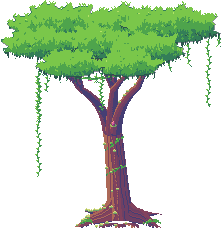
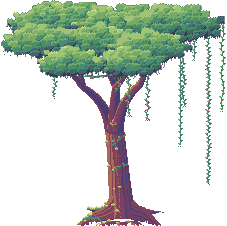
Piante che stanno nel prato: verdi del gioco, ciuffi, contorno selettivo
Bru: le piante nuove "non blendano bene con l'ambiente, studia online
tecniche". Dalle fonti (tutorial di pixel art sul fogliame e sulle cose
dell'ambiente): rampe condivise col terreno con le ombre verso il blu e il
viola, niente contorno scuro sulle cose dell'ambiente ma un contorno
selettivo di un tono più scuro, il fogliame fatto con un ciuffo-tipo
ripetuto (forma, misura e passo costanti) in tre toni secondo la luce,
niente pixel soli, meno contrasto e saturazione dei personaggi.

- strumenti/livelli/piante.py: la rampa delle foglie torna quella 'chioma'
  della tavolozza del gioco (gli scuri del prato, saturazione più bassa);
  il fogliame a ciuffi: luce generale, poi un ciuffo-tipo di 10-12 pixel
  ripetuto su file sfalsate coi suoi tre toni, i ciuffi di un lobo restano
  nel suo lobo (le fessure fra i lobi restano), ciuffi piccoli dove i
  grandi non cadono; contorno selettivo (un tono più scuro dalla parte
  della luce, due dalla parte dell'ombra).
- Rigenerati le piante, il ruscello e il pasto del goblin (cambiano solo
  le ombre degli alberi; strada e piazza identiche).

Claude-Session: https://claude.ai/code/session_01AE7uzpDH1Lo1PHb29aXJxZ

diff --git a/strumenti/livelli/piante.py b/strumenti/livelli/piante.py
@@ -8,19 +8,23 @@ che si vedono nei buchi; il tronco con le venature chiare dal lato della luce. I
 quelli di lei (niente ingrandimenti a blocchi): una pianta grande ha piu' lobi e piu' ciuffi, non foglie piu' grosse.
 Colori: quelli degli esempi di Bru (la stessa famiglia del prato).
 Le foglie dei cespugli e delle chiome (Bru, 27 novembre: "miglioriamo gli arbusti e le foglie delle piante", con gli
-esempi 116-118 "da seguire rigorosamente"): i verdi e i valori di quegli esempi (CHIOMA), fasce di luce nette (chiaro in
-alto a sinistra, medio, scuro in basso a destra, il piu' scuro in fondo e nelle fessure fra un lobo e l'altro), i
-passaggi fatti di foglie che pendono, le tacche a V nella luce, pochi colpi di luce gialla, il contorno (scuro dalla
-parte dell'ombra, piu' chiaro dalla parte della luce) e il bordo a ciuffi (_fogliame, _contorno).
+esempi 116-118; poi: "non blendano bene con l'ambiente, studia online tecniche"): il metodo dei pixel artist per le
+piante che devono stare nel prato (il ciuffo-tipo ripetuto di Slynyrd, le rampe condivise col terreno, il contorno
+selettivo invece della linea scura, niente pixel soli): prima la luce generale (chiaro in alto a sinistra, scuro in
+basso a destra e nelle fessure fra un lobo e l'altro), poi un solo ciuffo-tipo ripetuto su file sfalsate, ognuno coi
+suoi tre toni (luce, corpo, ombra) presi dalla luce generale, e i ciuffi di un lobo restano nel suo lobo; i colori sono
+la rampa 'chioma' della tavolozza del gioco, con gli scuri del prato (_fogliame, _contorno, _contorno_chioma).
 
 modulo: albero(alto, seme), pino(alto, seme), cespuglio(alto, seme) -> RGBA uint8
 uso: piante.py cartella_lei_chibi cartella_pezzi uscita.png   (la fila: lei, le piante nuove, le vecchie)"""
 import numpy as np
 
-# le foglie, dallo scuro al chiaro, coi valori e i verdi degli esempi di Bru per cespugli e chiome (116-118): il
-# contorno indaco della mappa, lo scuro verde petrolio, il medio verde pieno, la luce verde-giallo viva e il colpo di
-# luce gialla (prima: i colori del 110, coi chiari troppo vicini e lo scuro viola)
-CHIOMA = [(47, 41, 67), (44, 84, 78), (52, 126, 88), (78, 164, 76), (122, 199, 74), (180, 226, 104)]
+# le foglie, dallo scuro al chiaro: il contorno indaco della mappa e la rampa 'chioma' della tavolozza del gioco
+# (strumenti/tavolozza.py), che ha gli scuri del prato, passi di luce regolari e verdi meno saturi del prato: le piante
+# stanno nel prato invece di sembrare incollate (Bru: "non blendano bene con l'ambiente"; prima una rampa piu' satura,
+# presa dagli esempi 116-118, che col prato non c'entrava)
+CHIOMA = [(47, 41, 67), (55, 60, 82), (63, 104, 106), (73, 141, 108), (117, 170, 103), (161, 195, 118),
+          (199, 220, 138)]
 # i colori degli esempi di Bru (110): il tronco
 TRONCO = [(69, 62, 116), (110, 64, 100), (130, 66, 93), (172, 105, 88)]
 # i pini: la rampa degli aghi (strumenti/tavolozza.py, 'pino'), piu' fredda, con gli stessi scuri
@@ -111,6 +115,7 @@ def _chioma(img, cerchi, rampa, rng, tono_base, sfondo_scuro=True):
         v = pad[1 + dy:1 + dy + h, 1 + dx:1 + dx + w]
         davanti |= (v > lobo) & (lobo >= 0)
     tono[davanti] -= 2.0
+    _chioma.lobi = lobo
     return sagoma, tono
 
 
@@ -153,95 +158,90 @@ def _colora(img, sagoma, tono, rampa, rng, minimo=1):
     return liv
 
 
-# i segni del fogliame (esempi 116-118): le tacche scure a V e a trattino (il vuoto fra due ciuffi), i ciuffetti
-# chiari che pendono, i colpi di luce
-TACCHE = [['X.X', '.X.'], ['X.', '.X'], ['.X', 'X.'], ['X..X', '.XX.']]
-CIUFFETTI = [['X', 'X'], ['XX', '.X'], ['XX', 'X.'], ['.X.', 'XXX', '.X.'], ['XX', 'XX', '.X']]
-COLPI = [['X'], ['XX'], ['X', 'X'], ['.X', 'X.']]
+# il ciuffo-tipo del fogliame (il metodo "modulare" dei pixel artist: un solo ciuffo di foglie, ripetuto con forma,
+# misura e passo costanti, in tre toni secondo la luce): 'L' il bordo in luce (in alto a sinistra), 'M' il corpo,
+# 'D' l'ombra (in basso a destra); in cima le punte delle foglie
+CIUFFI = [['...L..L.L..', '..LLLLLLLL.', '.LLMLMMMLM.', 'LLMMMMMMMMD', 'LMMMLMMMMDD', '.MMMMMMMDDD', '.MMMMMMDDD.',
+           '..MMDDDDD..', '....DDD....'],
+          ['..L.LL....', '.LLLLLLLL.', 'LLMLMMMMMD', 'LMMMMMLMMD', '.MMMMMMMDD', '.MMMMMDDD.', '..MMDDDD..',
+           '...DDD....'],
+          ['....L..LL...', '..LLLLLLLLL.', '.LLMMLMMMMMD', 'LLMMMMMMMMDD', 'LMMMMMMLMMDD', '.MMMMMMMMDDD',
+           '..MMMMMDDDD.', '...MMDDDD...', '.....DD.....']]
+# i ciuffi piccoli, per riempire i lobi piccoli dove i grandi non cadono
+CIUFFINI = [['..L..L..', '.LLLLLL.', 'LLMMMMMM', 'LMMMMMMD', '.MMMMMDD', '..MMDDD.', '...DD...'],
+            ['.L.LL..', 'LLLLLL.', 'LMMMMMD', 'LMMMMMD', '.MMMDD.', '..DDD..']]
 
 
-def _fogliame(img, m, tono, rng, rampa=CHIOMA, minimo=1, tacche=(22, 30), chiari=30, colpi=70):
-    """Il fogliame come negli esempi di Bru (116-118, il tutorial delle palle e delle cupole di foglie): il tono
-    continuo a fasce nette (la luce in alto a sinistra: chiaro, medio, scuro, il piu' scuro in fondo e nelle fessure);
-    ogni passaggio da una fascia chiara a quella piu' scura sotto e' una frangia di foglie che pendono (larghe un pixel,
-    lunghe da uno a quattro, qualcuna larga due in cima) col vuoto scuro che sale fra l'una e l'altra, e appena sotto
-    qualche ciuffetto staccato del tono chiaro: la luce scende nell'ombra a foglie, non a linea. Dentro le fasce le
-    tacche scure a V (il vuoto fra due ciuffi) e nelle fasce scure qualche ciuffetto chiaro; i colpi di luce gialla
-    solo nella luce piu' piena. Le foglie hanno la misura dei pixel di lei: una pianta grande ha piu' segni, non segni
-    piu' grossi. Ritorna i livelli."""
+def _fogliame(img, m, tono, rng, rampa=CHIOMA, minimo=1, passo=(8, 6), lobi=None):
+    """Il fogliame a ciuffi, come negli esempi di Bru (116-118) e come fanno i pixel artist per le piante che devono
+    stare nel prato: prima la luce generale (il tono continuo: chiaro in alto a sinistra, scuro in basso a destra e nelle
+    fessure), poi un solo ciuffo-tipo ripetuto su file sfalsate (passo costante, un pixel di caso), dal dietro al
+    davanti, ognuno coi suoi tre toni (luce, corpo, ombra) scelti dalla luce generale dove sta; fra un ciuffo e l'altro
+    il fondo, un gradino piu' scuro. Niente pixel soli (fanno rumore): solo ciuffi interi. I ciuffi sul bordo escono
+    un poco: il bordo e' fatto di ciuffi. Con 'lobi' (il lobo che si vede in ogni pixel) un ciuffo resta nel suo lobo,
+    cosi' le fessure in ombra fra un lobo e l'altro restano. Ritorna i livelli (-1 fuori)."""
     h, w = m.shape
     n = len(rampa)
-    liv = np.clip(np.floor(tono + 0.5), minimo, n - 2).astype(int)
-    liv[~m] = -1
-    out = liv.copy()
-
-    def segna(forma, x0, y0, k, deve=None):
-        for j, r in enumerate(forma):
-            for i, ch in enumerate(r):
-                y, x = y0 + j, x0 + i
-                if ch == 'X' and 0 <= y < h and 0 <= x < w and m[y, x] and (deve is None or liv[y, x] == deve):
-                    out[y, x] = k
-    # le frange, colonna per colonna; e sotto ogni frangia, ogni tanto, un ciuffetto staccato del tono chiaro
-    for x in range(w):
-        for y in range(h - 1):
-            a, b = liv[y, x], liv[y + 1, x]
-            if a < 0 or b < 0 or a <= b:
-                continue
-            r = rng.random()
-            lung = 0 if r < 0.15 else (1 if r < 0.4 else (2 if r < 0.7 else (3 if r < 0.9 else 4)))
-            if lung == 0:
-                if y >= 1 and liv[y - 1, x] == a and rng.random() < 0.65:
-                    out[y, x] = b
-                continue
-            for k in range(1, lung + 1):
-                if y + k < h and m[y + k, x] and liv[y + k, x] == b:
-                    out[y + k, x] = a
-            if lung >= 2 and rng.random() < 0.35:
-                xx = x + (1 if rng.random() < 0.5 else -1)
-                if 0 <= xx < w and m[y + 1, xx] and liv[y + 1, xx] == b:
-                    out[y + 1, xx] = a
-            if rng.random() < 0.10:
-                yy = y + lung + int(rng.integers(2, 5))
-                segna(CIUFFETTI[int(rng.integers(len(CIUFFETTI)))], x - 1, yy, a, deve=b)
-    # dentro le fasce, lontano dai confini: tacche scure, ciuffetti chiari nelle fasce scure, colpi di luce
-    pad = np.pad(liv, 2, constant_values=-1)
-    lontano = m.copy()
+    pad = np.pad(m, 2)
+    largo = np.zeros((h, w), bool)
     for dy in range(-2, 3):
         for dx in range(-2, 3):
-            lontano &= pad[2 + dy:2 + dy + h, 2 + dx:2 + dx + w] == liv
-    ys, xs = np.nonzero(lontano)
-    for i in rng.permutation(len(ys)):
-        y, x = ys[i], xs[i]
-        k = liv[y, x]
-        r = rng.random()
-        if k >= n - 2:                                   # la luce: tacche rade e i colpi di luce
-            if r < 1.0 / tacche[0]:
-                segna(TACCHE[int(rng.integers(len(TACCHE)))], x - 1, y, k - 1, deve=k)
-            elif r < 1.0 / tacche[0] + 1.0 / colpi and tono[y, x] > n - 2 + 0.15:
-                segna(COLPI[int(rng.integers(len(COLPI)))], x, y, n - 1, deve=k)
-        elif k > minimo:                                 # il medio: tacche e qualche ciuffetto chiaro
-            if r < 1.0 / tacche[1]:
-                segna(TACCHE[int(rng.integers(len(TACCHE)))], x - 1, y, k - 1, deve=k)
-            elif r < 1.0 / tacche[1] + 1.0 / chiari:
-                segna(CIUFFETTI[int(rng.integers(len(CIUFFETTI)))], x, y, k + 1, deve=k)
-        elif r < 1.0 / chiari:                           # lo scuro: ciuffetti chiari
-            segna(CIUFFETTI[int(rng.integers(len(CIUFFETTI)))], x, y, k + 1, deve=k)
+            largo |= pad[2 + dy:2 + dy + h, 2 + dx:2 + dx + w]
+    out = np.full((h, w), -1)
+    fondo = np.clip(np.floor(tono + 0.5) - 1, minimo, n - 3).astype(int)
+    out[m] = fondo[m]
+    centri = []
+    for j, y in enumerate(range(-4, h + 4, passo[1])):
+        spost = (passo[0] // 2) * (j % 2)
+        for x in range(-4 + spost, w + 4, passo[0]):
+            centri.append((y + int(rng.integers(-1, 2)), x + int(rng.integers(-2, 3))))
+    coperto = np.zeros((h, w), bool)
+
+    def timbra(cy, cx, forme):
+        k = int(np.clip(np.floor(tono[cy, cx] + 0.5), minimo + 1, n - 2))
+        toni = {'L': min(k + 1, n - 2) if not (k == n - 2 and rng.random() < 0.35) else n - 1, 'M': k,
+                'D': max(minimo, k - 1)}
+        forma = forme[int(rng.integers(len(forme)))]
+        hh, ww = len(forma), len(forma[0])
+        for j, riga in enumerate(forma):
+            for i, ch in enumerate(riga):
+                if ch == '.':
+                    continue
+                y, x = cy - hh // 2 + j, cx - ww // 2 + i
+                if 0 <= y < h and 0 <= x < w and largo[y, x]:
+                    if lobi is not None and m[y, x] and lobi[y, x] != lobi[cy, cx]:
+                        continue
+                    out[y, x] = toni[ch]
+                    coperto[y, x] = True
+    for cy, cx in sorted(centri):
+        if 0 <= cy < h and 0 <= cx < w and m[cy, cx]:
+            timbra(cy, cx, CIUFFI)
+    # dove nessun ciuffo e' caduto (un lobo piccolo, un angolo): ciuffi piccoli, dall'alto in basso
+    for cy in range(0, h, 3):
+        for cx in range(0, w, 3):
+            if m[cy, cx] and not coperto[cy, cx]:
+                timbra(cy, cx, CIUFFINI)
     for k in range(minimo, n):
-        img[(out == k) & m] = rampa[k]
+        img[out == k] = rampa[k]
     return out
 
 
-def _contorno(img, m, rampa=CHIOMA):
-    """il contorno di un pixel dentro la sagoma, come negli esempi: piu' scuro dove guarda l'ombra (in basso e a destra),
-    due gradini piu' chiaro dove guarda la luce (in alto e a sinistra), come nell'esempio 118"""
-    h, w = m.shape
+def _contorno(img, liv, rampa=CHIOMA):
+    """il contorno selettivo, come si fa per le cose dell'ambiente: niente linea scura tutto attorno; i pixel del bordo
+    diventano un gradino piu' scuri del loro colore dove guardano la luce (in alto e a sinistra), due dove guardano
+    l'ombra (in basso e a destra). Ritorna la sagoma"""
+    m = liv >= 0
     pad = np.pad(m, 1)
     su, giu, sx, dx = ~pad[:-2, 1:-1], ~pad[2:, 1:-1], ~pad[1:-1, :-2], ~pad[1:-1, 2:]
     bordo = m & (su | giu | sx | dx)
-    luce = bordo & (su | sx) & ~giu & ~dx
-    img[bordo] = rampa[0]
-    img[luce] = rampa[2]
-    return bordo
+    ombra = bordo & (giu | dx)
+    luce = bordo & ~ombra
+    nuovo = liv.copy()
+    nuovo[luce] = np.maximum(1, liv[luce] - 1)
+    nuovo[ombra] = np.maximum(0, liv[ombra] - 2)
+    for k in range(len(rampa)):
+        img[bordo & (nuovo == k)] = rampa[k]
+    return m
 
 
 def _ripulisci(img, dove):
@@ -426,13 +426,14 @@ def cespuglio(alto=80, seme=1):
     sagoma &= np.mgrid[0:h, 0:w][0] <= base
     tono[sagoma & (tono < 0)] = 2.6
     chioma = np.zeros_like(img)
-    _fogliame(chioma, sagoma, tono, rng)
+    liv = _fogliame(chioma, sagoma, tono, rng, lobi=_chioma.lobi)
+    liv[np.mgrid[0:h, 0:w][0] > base] = -1
     for x in range(w):                                       # il fondo, dove tocca il prato, nell'ombra
-        ys = np.nonzero(sagoma[:, x])[0]
+        ys = np.nonzero(liv[:, x] >= 0)[0]
         if len(ys):
-            chioma[max(ys.min(), ys.max() - rng.integers(1, 3)):ys.max() + 1, x] = CHIOMA[1]
-    _ripulisci(chioma, sagoma)
-    _contorno(chioma, sagoma)
+            liv[max(ys.min(), ys.max() - int(rng.integers(1, 3))):ys.max() + 1, x] = 1
+            chioma[liv[:, x] == 1, x] = CHIOMA[1]
+    sagoma = _contorno(chioma, liv)
     out = np.zeros((h, w, 4), np.uint8)
     out[..., :3] = chioma; out[..., 3] = sagoma * 255
     return _taglia(out)
@@ -679,21 +680,16 @@ def _gruppo(T, mx, my, rx, ryt, ryb, tono0, rng):
     vt = np.clip((yy - y0 - cima[None, :]) / np.maximum(1, fondo - cima)[None, :], 0, 1)
     tono = tono0 - 3.1 * vt ** 0.8 - 0.5 * dx
     n = len(CHIOMA)
-    # il fogliame degli esempi di Bru (116-118, la cupola del tutorial): fasce nette, frange di foglie che pendono,
-    # tacche a V, i colpi di luce in cima
+    # il fogliame a ciuffi (la cupola: chiara sopra, scura sotto); la sagoma del gruppo e' quella dei ciuffi
     blocco = T.img[y0:y1, x0:x1]
     sub = np.zeros_like(blocco)
     liv = _fogliame(sub, m, tono, rng)
+    m = liv >= 0
     blocco[m] = sub[m]
     T.op[y0:y1, x0:x1] |= m
     dove = np.zeros((T.h, T.w), bool)
     dove[y0:y1, x0:x1] = m
-    # i ciuffi di foglie che spuntano dal bordo di sopra, nel tono della cima
-    for i in range(x1 - x0):
-        if m[:, i].any() and rng.random() < 0.42:
-            j = cima[i]
-            forma = FOGLIE_SU[rng.integers(len(FOGLIE_SU))]
-            T.timbra(forma, x0 + i - 1, y0 + j - len(forma), CHIOMA[min(n - 2, max(1, liv[j, i]))])
+    fondo = np.where(m.any(0), m.shape[0] - 1 - m[::-1].argmax(0), 0)
     # sotto: l'indaco del fondo e le foglie che pendono, lunghe e corte, con la punta che gira
     for i in range(x1 - x0):
         if not m[:, i].any():
@@ -711,17 +707,19 @@ def _gruppo(T, mx, my, rx, ryt, ryb, tono0, rng):
 
 
 def _contorno_chioma(T, chioma):
-    """il contorno della chioma come negli esempi: i pixel della chioma che toccano il vuoto (non il tronco o i rami)
-    diventano il piu' scuro dove guardano l'ombra, due gradini piu' chiaro dove guardano la luce"""
+    """il contorno selettivo della chioma (come _contorno): i pixel della chioma che toccano il vuoto (non il tronco o i
+    rami) diventano un gradino piu' scuri dove guardano la luce, due dove guardano l'ombra"""
     sagoma = chioma & T.op
-    sub = T.img.copy()
     pad = np.pad(T.op, 1)
     su, giu, sx, dx = ~pad[:-2, 1:-1], ~pad[2:, 1:-1], ~pad[1:-1, :-2], ~pad[1:-1, 2:]
     bordo = sagoma & (su | giu | sx | dx)
-    luce = bordo & (su | sx) & ~giu & ~dx
-    sub[bordo] = CHIOMA[0]
-    sub[luce] = CHIOMA[2]
-    T.img[bordo] = sub[bordo]
+    indice = {tuple(c): i for i, c in enumerate(CHIOMA)}
+    for y, x in zip(*np.nonzero(bordo)):
+        i = indice.get(tuple(int(v) for v in T.img[y, x]))
+        if i is None:
+            continue
+        passi = 2 if (giu[y, x] or dx[y, x]) else 1
+        T.img[y, x] = CHIOMA[max(0 if passi == 2 else 1, i - passi)]
 
 
 def _felce(T, x, y, larga, rng):
